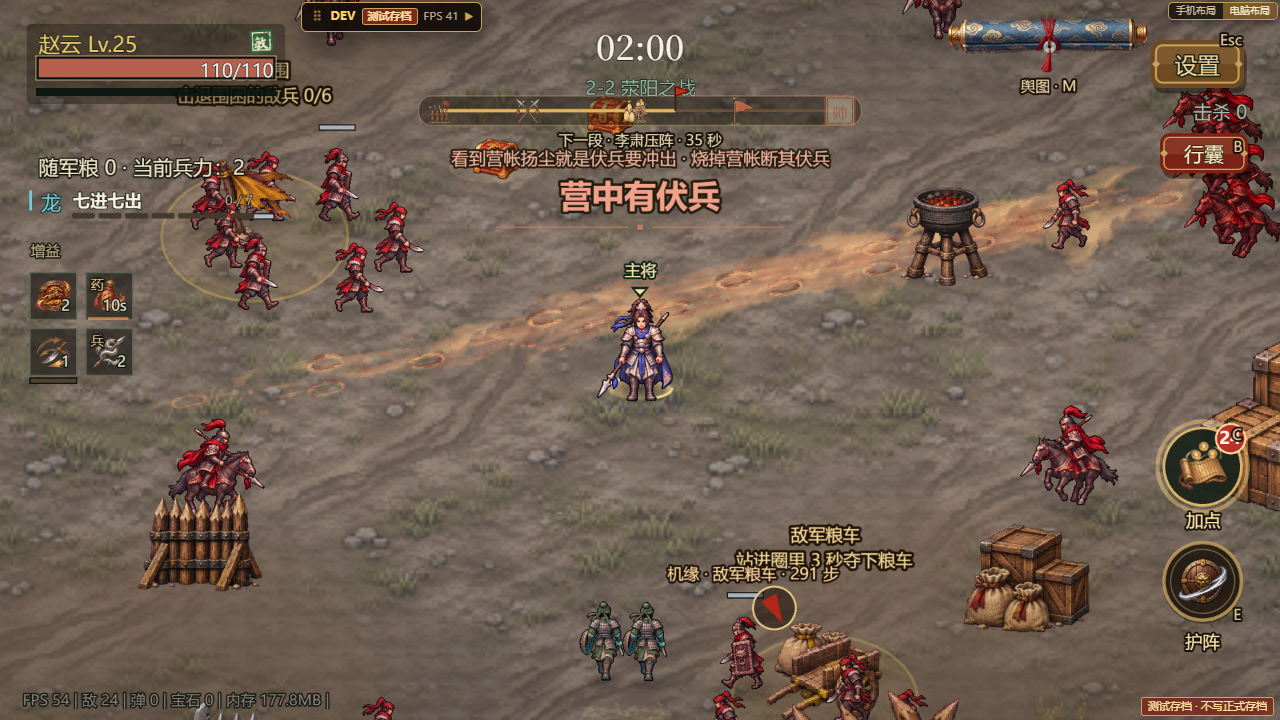
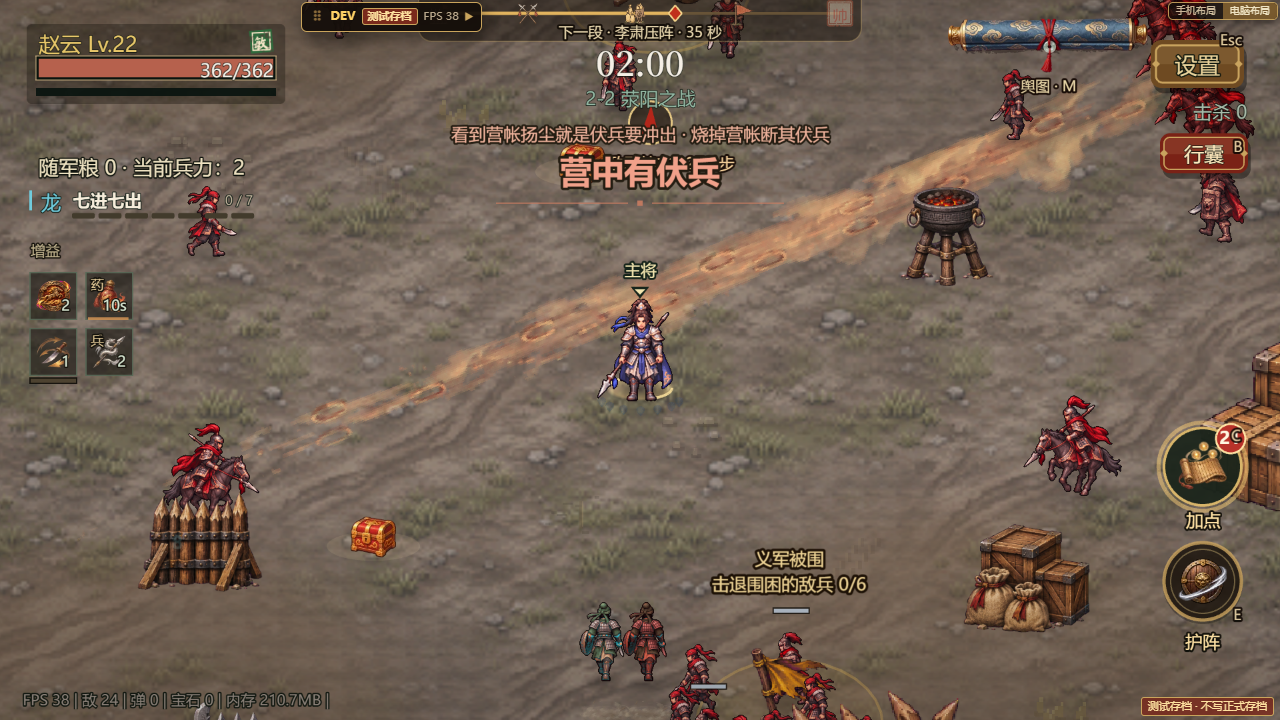
等级上限改用 B（用户「B吧」：10 / 14 / 18 / … / 54，每章 +4）+ 战况线贴屏幕最上沿（用户「顶部「战况」线放在屏幕最上面」） - 经验表按 4 级 / 章重排（二章每级 550 … 十二章 2725），宝石经验章节倍率不变（×1 … ×6.5） - 属性点：Lv25 前每级 1 点、Lv25–38 每 2 级、之后每 3 级 1 点——第五章末 24 点、第十二章末 35 点（同原目标） - 体魄：Lv10 前每级 +8、Lv10–26 每级 +15、之后 +6（第五章末 +312、第十二章末 +480，同原目标） - 新武将从「上限 − 4」（落后一章）起步；战法精

diff --git a/src/ui/BattleTrack.ts b/src/ui/BattleTrack.ts
@@ -13,7 +13,10 @@ const ICON: Record<PhaseKind, string> = { vanguard: 'enemy', elite: 'elite', eve
 const GLYPH: Record<PhaseKind, string> = { vanguard: '先', elite: '精', event: '伏', lieutenant: '将', boss: '帅' };
 const KIND_NAME: Record<PhaseKind, string> = { vanguard: '先锋', elite: '精锐', event: '事件', lieutenant: '副将', boss: '首领' };
 
+/** 顶部细带：高度、线的位置（地图像素，屏幕坐标）。场景按 BattleTrack.HEIGHT 把计时器 / 关名往下挪。 */
+const STRIP_H = 31, LINE_Y = 10;
 export class BattleTrack {
+  static readonly HEIGHT = STRIP_H;
   readonly root: Phaser.GameObjects.Container;
   private readonly line: Phaser.GameObjects.Graphics;
   private readonly icons: Array<{ img?: Phaser.GameObjects.Image; seal: Phaser.GameObjects.Container; x: number; kind: PhaseKind }> = [];
@@ -24,31 +27,32 @@ export class BattleTrack {
   /** 测试用。 */
   readonly stats = { phase: -1, progress: 0, iconsLit: 0 };
 
-  constructor(private readonly scene: Phaser.Scene, private readonly plan: PhasePlan, y = 83) {
-    const desktop = GAME_WIDTH >= 900; this.w = desktop ? 300 : 240;
-    this.root = scene.add.container(GAME_WIDTH / 2, y).setScrollFactor(0).setDepth(DEPTH.hud + 2).setName('battle-track');
-    const back = scene.add.graphics();
-    back.fillStyle(0x16100a, .42).fillRoundedRect(-this.w / 2 - 16, -11, this.w + 32, 22, 10);
-    back.lineStyle(1, 0xc9a86a, .35).strokeRoundedRect(-this.w / 2 - 16, -11, this.w + 32, 22, 10);
-    back.lineStyle(2, 0x6b5638, .9).lineBetween(-this.w / 2, 0, this.w / 2, 0);
+  constructor(private readonly scene: Phaser.Scene, private readonly plan: PhasePlan) {
+    // 2026-11-19 用户「顶部「战况」线放在屏幕最上面」：贴着屏幕上沿的一条细带（上边不留圆角），计时器 / 关名由场景往下挪（GameScene.applyPhases）
+    const desktop = GAME_WIDTH >= 900, L = LINE_Y; this.w = desktop ? 300 : 240;
+    this.root = scene.add.container(GAME_WIDTH / 2, 0).setScrollFactor(0).setDepth(DEPTH.hud + 2).setName('battle-track');
+    const back = scene.add.graphics(), bw = this.w + 32, r = { tl: 0, tr: 0, bl: 10, br: 10 };
+    back.fillStyle(0x16100a, .5).fillRoundedRect(-bw / 2, 0, bw, STRIP_H, r);
+    back.lineStyle(1, 0xc9a86a, .35).strokeRoundedRect(-bw / 2, -1, bw, STRIP_H + 1, r);
+    back.lineStyle(2, 0x6b5638, .9).lineBetween(-this.w / 2, L, this.w / 2, L);
     this.line = scene.add.graphics();
     this.root.add([back, this.line]);
     const bossAt = Math.max(1, plan.bossAt);
     for (const p of plan.phases) {
       const x = -this.w / 2 + this.w * Math.min(1, p.start / bossAt);
-      const seal = scene.add.container(x, 0).setName('track-' + p.kind);
-      const g = scene.add.graphics(); const r = p.kind === 'boss' ? 10 : 8;
+      const seal = scene.add.container(x, L).setName('track-' + p.kind);
+      const g = scene.add.graphics(); const r = p.kind === 'boss' ? 8 : 7;
       g.fillStyle(p.kind === 'boss' ? 0x8a1a10 : 0x2a1f14, 1).fillCircle(0, 0, r).lineStyle(1.5, p.kind === 'boss' ? 0xf0c070 : 0xc9a86a, 1).strokeCircle(0, 0, r);
       const t = scene.add.text(0, 0, GLYPH[p.kind], { fontFamily: FONT, fontSize: p.kind === 'boss' ? '12px' : '10px', color: p.kind === 'boss' ? '#ffe2a8' : '#e8d3a6', resolution: 2 }).setOrigin(.5);
       seal.add([g, t]); this.root.add(seal);
       this.icons.push({ seal, x, kind: p.kind });
     }
-    this.flag = scene.add.container(-this.w / 2, -2).setName('track-flag');
+    // 进度标：线上一枚朱红菱形（贴着屏幕上沿，旗杆会伸出屏幕外，所以不用小旗）
+    this.flag = scene.add.container(-this.w / 2, L).setName('track-flag');
     const fg = scene.add.graphics();
-    fg.lineStyle(1.5, 0x3a2412, 1).lineBetween(0, 2, 0, -16);
-    fg.fillStyle(0xc0301c, 1).fillTriangle(0, -16, 11, -12.5, 0, -9).lineStyle(1, 0x5a120a, 1).strokeTriangle(0, -16, 11, -12.5, 0, -9);
+    fg.fillStyle(0xc0301c, 1).fillPoints([{ x: 0, y: -6 }, { x: 5, y: 0 }, { x: 0, y: 6 }, { x: -5, y: 0 }], true).lineStyle(1.2, 0xf3d48a, 1).strokePoints([{ x: 0, y: -6 }, { x: 5, y: 0 }, { x: 0, y: 6 }, { x: -5, y: 0 }], true);
     this.flag.add(fg); this.root.add(this.flag);
-    this.caption = scene.add.text(0, 13, '', { fontFamily: FONT, fontSize: desktop ? '11px' : '10px', color: '#e7d6ae', resolution: 2, stroke: '#140e08', strokeThickness: 3 }).setOrigin(.5, 0).setName('track-caption');
+    this.caption = scene.add.text(0, L + 13, '', { fontFamily: FONT, fontSize: desktop ? '11px' : '10px', color: '#e7d6ae', resolution: 2, stroke: '#140e08', strokeThickness: 3 }).setOrigin(.5, .5).setName('track-caption');
     this.root.add(this.caption);
     this.loadIcons();
   }
@@ -59,7 +63,7 @@ export class BattleTrack {
       if (!this.root.active || !s.textures.exists(MAP_ICONS)) return;
       for (const ic of this.icons) {
         if (ic.img || !s.textures.get(MAP_ICONS).has(ICON[ic.kind])) continue;
-        const sz = ic.kind === 'boss' ? 24 : 19;
+        const sz = ic.kind === 'boss' ? 20 : 16;
         ic.img = s.add.image(0, 0, MAP_ICONS, ICON[ic.kind]).setDisplaySize(sz, sz);
         ic.seal.removeAll(true); ic.seal.add(ic.img);
         if (ic.kind === 'boss') ic.seal.add(s.add.text(0, 1, '帅', { fontFamily: FONT, fontSize: '11px', color: '#9a1a10', resolution: 2 }).setOrigin(.5));
@@ -88,7 +92,7 @@ export class BattleTrack {
     if (phase !== this.cur) { this.cur = phase; this.stats.phase = phase; this.paintStates(); }
     const k = Math.max(0, Math.min(1, elapsed / Math.max(1, this.plan.bossAt))); this.stats.progress = k;
     const x = -this.w / 2 + this.w * k; this.flag.x = x;
-    this.line.clear().lineStyle(2.5, 0xe8b860, .95).lineBetween(-this.w / 2, 0, x, 0);
+    this.line.clear().lineStyle(2.5, 0xe8b860, .95).lineBetween(-this.w / 2, LINE_Y, x, LINE_Y);
     const nx = this.plan.phases[phase + 1];
     if (bossOn || !nx) {
       this.caption.setText(bossOn ? '首领 · ' + bossName : '');

diff --git a/src/scenes/GameScene.ts b/src/scenes/GameScene.ts
@@ -3099,7 +3099,7 @@ export class GameScene extends Phaser.Scene {
       this.tweens.killTweensOf(notice); notice.destroy();
     }
     const match = /^第 (\d+)\/(\d+) 波 · (.+)$/.exec(text);
-    const label = this.add.container(GAME_WIDTH / 2, GAME_HEIGHT * .21 + (this.battleTrack?.root.visible ? 26 : 0)) // 五段关：让开顶部战况线
+    const label = this.add.container(GAME_WIDTH / 2, GAME_HEIGHT * .21 + (this.battleTrack?.root.visible ? 8 : 0)) // 五段关：计时器 / 关名下移后，横幅也略往下
       .setScrollFactor(0).setDepth(DEPTH.overlay - 10).setName('combat-notice').setVisible(this.mode === 'none');
     const caption = this.add.text(0, -21, captionText ?? (match ? `第 ${match[1]} / ${match[2]} 波` : '战场警报'), {
       fontFamily: FONT, fontSize: IS_DESKTOP ? '13px' : '14px', color: danger ? '#efb39c' : '#e1cf9d',
@@ -3628,7 +3628,7 @@ export class GameScene extends Phaser.Scene {
   /** 战斗中武将升级：每级一次三选一并给 1 个属性点（正式战斗立刻写入存档）。 */
   protected onHeroLevelUp(gained: number): void {
     const g = this.player.growth, id = this.runConfig.character;
-    const fromLv = this.heroLv, pts = attributePointsBetween(fromLv, this.player.level); // 2026-11-19：Lv20 后每 4 级才给 1 点（三选一照给）
+    const fromLv = this.heroLv, pts = attributePointsBetween(fromLv, this.player.level); // 2026-11-19：Lv25 后每 2–3 级才给 1 点（三选一照给）
     this.heroLv = this.player.level; this.picksGiven += gained; this.pendingLevels += gained; g.attrMax = attributeCap(this.player.level);
     this.player.heal(vigorHp(this.player.level) - vigorHp(fromLv)); // 体魄：升级多出的生命上限直接补满这一截
     const room = (Object.values(g.attributes) as number[]).reduce((n, v) => n + g.attrMax - v, 0) - g.unallocated;
@@ -3675,6 +3675,8 @@ export class GameScene extends Phaser.Scene {
         },
       }, plan);
       this.battleTrack = new BattleTrack(this, plan);
+      // 战况线贴着屏幕上沿：计时器、关名往下挪一截（不和战况线叠）
+      this.hudTexts.timer.setY(BattleTrack.HEIGHT + 3); this.hudTexts.chapter.setY(BattleTrack.HEIGHT + 33);
       this.fortunes = new BattleFortunes({
         scene: this, player: () => this.player, elapsed: () => this.elapsed,
         place: (x, y) => { let p = { x, y }; if (this.arena) p = this.arena.clampPoint(p.x, p.y); if (this.terrain) p = this.terrain.free(p.x, p.y, 48); return p; },
@@ -3685,7 +3687,7 @@ export class GameScene extends Phaser.Scene {
         offer: k => { this.fortuneQueue.push(k); },
       }, plan);
       this.hudTexts.wave.setVisible(false);
-    } else this.hudTexts.wave.setVisible(true);
+    } else { this.hudTexts.wave.setVisible(true); this.hudTexts.timer.setY(22); this.hudTexts.chapter.setY(56); }
     this.phasedFor = this.chapter;
   }
   /** 新卡池（五段主线关才有）：战法位按章节概率换新卡（systems/LevelCards）。 */
@@ -4460,7 +4462,7 @@ export class GameScene extends Phaser.Scene {
     if (!this.player || !this.attributePointsText) return;
     const growth=this.player.growth;
     {const close=this.attributePanel.getByName('attributes-close') as Phaser.GameObjects.Text|null;close?.setText(this.attributeReturn==='none'?'继续战斗':'返回暂停菜单');if(close&&!close.getData('hitBox')){lqHitBox(close,220,44);close.setData('hitBox',true);}}
-    this.attributePointsText.setText(growth.unallocated>0?`可分配属性点 ${growth.unallocated}`:`属性点已用完 · Lv20 前每级 1 点、之后每 4 级 1 点（当前 Lv.${this.heroLv}）`).setColor(growth.unallocated>0?(IS_DESKTOP?'#efd399':'#1c160c'):'#91ab98').setBackgroundColor(growth.unallocated>0&&!IS_DESKTOP?'#e2bd6a':'#00000000');if(IS_DESKTOP)this.attributePointsText.setFontFamily(HEADING_FONT).setFontSize(growth.unallocated>0?20:15).setStroke('#120904',growth.unallocated>0?4:0);
+    this.attributePointsText.setText(growth.unallocated>0?`可分配属性点 ${growth.unallocated}`:`属性点已用完 · Lv25 前每级 1 点、之后每 2–3 级 1 点（当前 Lv.${this.heroLv}）`).setColor(growth.unallocated>0?(IS_DESKTOP?'#efd399':'#1c160c'):'#91ab98').setBackgroundColor(growth.unallocated>0&&!IS_DESKTOP?'#e2bd6a':'#00000000');if(IS_DESKTOP)this.attributePointsText.setFontFamily(HEADING_FONT).setFontSize(growth.unallocated>0?20:15).setStroke('#120904',growth.unallocated>0?4:0);
     this.attributePauseText?.setText(`分配属性点 · ${growth.unallocated}`);
     const weapon=this.player.weapons[0];
     this.attributeWeaponText?.setText((weapon?weaponName(weapon.id,this.runConfig.character):'')+' · '+growth.masteryLabel());

diff --git a/src/data/attributes.ts b/src/data/attributes.ts
@@ -16,22 +16,28 @@ export const ATTRIBUTE_IDS: readonly AttributeId[] = ['strength', 'agility', 'in
  * ATTRIBUTE_MAX = 绝对上限（读档夹取、格子排版）；实际上限看 attributeCap(武将等级)。主属性专精门槛 4 / 7 / 10 不变。
  */
 export const ATTRIBUTE_MAX = 15;
-/** 2026-11-19 波数 / 等级重做（wave-progression-redesign.md §3）：点数不跟等级一起涨，最多约 35 点，单项上限固定 10。 */
+/** 2026-11-19 波数 / 等级重做（wave-progression-redesign.md §3）：点数不跟等级一起涨，第十二章末约 35 点，单项上限固定 10。 */
 export function attributeCap(_level: number): number { return Math.min(ATTRIBUTE_MAX, 10); }
 /**
- * 某等级累计属性点（2026-11-19 等级上限提高到 84，点数和等级脱钩）：Lv20 前每级 1 点，之后每 4 级 1 点。
- * Lv10 = 9、Lv20 = 19、Lv42 = 24、Lv72 = 32、Lv84 = 35（对得上敌人调参时假设的强度）。
+ * 某等级累计属性点（2026-11-19 用户定上限 B：10 / 14 / … / 54，每章 +4；点数和等级脱钩）：
+ * Lv25 前每级 1 点，Lv25–38 每 2 级 1 点，Lv38 起每 3 级 1 点。
+ * 各章打完：9 / 13 / 17 / 21 / 24 / 26 / 28 / 30 / 31 / 32 / 34 / 35（第五章末约 24、第十二章末约 35，对得上敌人调参时假设的强度）。
  */
-export const ATTRIBUTE_POINTS = { fullUntil: 20, lateEvery: 4 } as const;
+export const ATTRIBUTE_POINTS = { fullUntil: 25, halfUntil: 38 } as const;
 export function attributePointsAt(level: number): number {
   const lv = Math.max(1, Math.floor(level)), A = ATTRIBUTE_POINTS;
-  return lv <= A.fullUntil ? lv - 1 : A.fullUntil - 1 + Math.floor((lv - A.fullUntil) / A.lateEvery);
+  if (lv <= A.fullUntil) return lv - 1;
+  const mid = A.fullUntil - 1 + Math.floor((Math.min(lv, A.halfUntil) - A.fullUntil) / 2);
+  return lv <= A.halfUntil ? mid : mid + Math.floor((lv - A.halfUntil) / 3);
 }
-/** 体魄：武将每级生命上限 +8（Lv40 起每级 +4），取代固本培元无限叠出来的生命。 */
-export const VIGOR = { perLevel: 8, lateFrom: 40, perLevelLate: 4 } as const;
+/**
+ * 体魄：武将等级生命（取代固本培元无限叠出来的生命）。Lv10 前每级 +8、Lv10–26 每级 +15、之后每级 +6：
+ * Lv10 +72、Lv26 +312（第五章末，对齐现在 5-2 叠出的约 +340）、Lv54 +480（第十二章末，对齐 10-3 约 +440）。
+ */
+export const VIGOR = { early: 8, mid: 15, late: 6, midFrom: 10, lateFrom: 26 } as const;
 export function vigorHp(level: number): number {
-  const lv = Math.max(1, Math.floor(level));
-  return VIGOR.perLevel * (Math.min(lv, VIGOR.lateFrom) - 1) + VIGOR.perLevelLate * Math.max(0, lv - VIGOR.lateFrom);
+  const lv = Math.max(1, Math.floor(level)), V = VIGOR;
+  return V.early * (Math.min(lv, V.midFrom) - 1) + V.mid * Math.max(0, Math.min(lv, V.lateFrom) - V.midFrom) + V.late * Math.max(0, lv - V.lateFrom);
 }
 export const ATTRIBUTE_POINT_EVERY = 1;
 /** 每点效果。 */

diff --git a/src/systems/HeroProgress.ts b/src/systems/HeroProgress.ts
@@ -9,14 +9,14 @@ import { arcUnlocked } from '../world/WorldStore';
  * 武将等级（跨战斗永久，2026-11-16 用户批准 hero-level-proposal.md 做法 A）：
  * - 每位武将（可玩名将 CharacterId 或招募的 r_ 编号）各记等级、经验、已加的属性点；存档键 im_heroes_v1（SaveSlots.PROGRESS_KEYS）。
  * - 结算时本场经验折进武将经验（主线 100%、攻城 / 军情 / 挑战 50%，测试战斗不记）；经验表与局内相同（xpToNext）。
- * - 属性点：2026-11-19 起 Lv20 前每级 1 点、之后每 4 级 1 点（data/attributes.ts attributePointsAt），单项最多 10，分配永久保留。
- * - 等级上限随章节开放（2026-11-19 波数 / 等级重做）：10 / 18 / 26 / 34 / 42 / 48 / 54 / 60 / 66 / 72 / 78 / 84；超出的经验先存着，开新章后再升。
- * - 第一次出战的武将：只开第一章时 Lv1，之后从「当前上限 − 6」起步（避免后期才用的武将打不动）。
+ * - 属性点：2026-11-19 起 Lv25 前每级 1 点、Lv25–38 每 2 级 1 点、之后每 3 级 1 点（data/attributes.ts attributePointsAt），单项最多 10，分配永久保留。
+ * - 等级上限随章节开放（2026-11-19 波数 / 等级重做，用户选 B）：10 / 14 / 18 / 22 / 26 / 30 / 34 / 38 / 42 / 46 / 50 / 54；超出的经验先存着，开新章后再升。
+ * - 第一次出战的武将：只开第一章时 Lv1，之后从「当前上限 − 4」（落后一章）起步（避免后期才用的武将打不动）。
  */
 export const HEROES_KEY = 'im_heroes_v1';
 /** 各章开放时的武将等级上限（第 n 章 = LEVEL_CAPS[n−1]）。2026-11-18 平衡：第六～十二章每章 +4，到 58（属性单项上限 14、共 56 点）。 */
 /** 2026-11-19 波数 / 等级重做（wave-progression-redesign.md §3）：上限提高，经验按章节放大，各章打完正好到上限；点数与等级脱钩（attributePointsAt）。 */
-export const LEVEL_CAPS: readonly number[] = [10, 18, 26, 34, 42, 48, 54, 60, 66, 72, 78, 84];
+export const LEVEL_CAPS: readonly number[] = [10, 14, 18, 22, 26, 30, 34, 38, 42, 46, 50, 54]; // 2026-11-19 用户选 B（每章 +4）
 export type HeroKey = CharacterId | `r_${number}`;
 export interface HeroRecord { level: number; xp: number; attributes: Record<AttributeId, number> }
 /**
@@ -41,7 +41,7 @@ export function chaptersOpen(): number {
 }
 export function levelCap(): number { return LEVEL_CAPS[chaptersOpen() - 1]; }
 /** 第一次出战的武将的起始等级。 */
-export function startLevel(): number { const cap = levelCap(); return cap <= LEVEL_CAPS[0] ? 1 : cap - 6; }
+export function startLevel(): number { const cap = levelCap(); return cap <= LEVEL_CAPS[0] ? 1 : cap - 4; } // 落后一章
 /** 某等级累计可得的属性点。 */
 export function pointsAt(level: number): number { return attributePointsAt(level); }
 

diff --git a/src/ui/HeroCodexUI.ts b/src/ui/HeroCodexUI.ts
@@ -270,7 +270,7 @@ export class HeroCodexUI {
   /** 属性页：每项一张漆卡（图标 · 名字 · 效果 · 点数刻度 · +），主属性另起一行列专精三档。 */
   private deskAttrs(x: number, y: number, w: number, bottom: number): void {
     const a = heroAttrs(this.hero), free = heroFreePoints(this.hero), cost = respecCost(this.hero), spent = Object.values(a).reduce((n, v) => n + v, 0), cap = attributeCap(heroInfo(this.hero).level);
-    const head = this.text(x + 4, y + 8, `未分配属性点 ${free}　（Lv20 前每级 1 点、之后每 4 级 1 点，单项最多 ${cap} 点）`, 14, free ? '#f3d48a' : '#b9a57a').setOrigin(0, .5).setName('codex-free');
+    const head = this.text(x + 4, y + 8, `未分配属性点 ${free}　（Lv25 前每级 1 点、之后每 2–3 级 1 点，单项最多 ${cap} 点）`, 14, free ? '#f3d48a' : '#b9a57a').setOrigin(0, .5).setName('codex-free');
     const head0 = head.text, ids = Object.keys(ATTRIBUTE_INFO) as AttributeId[], cardH = Math.min(66, Math.floor((bottom - y - 70) / ids.length));
     ids.forEach((id, i) => {
       const ry = y + 24 + i * cardH, primary = primaryAttribute(this.hero) === id, h = cardH - 6, g = this.add(this.scene.add.graphics());
@@ -394,7 +394,7 @@ export class HeroCodexUI {
 
   private renderAttrs(x: number, y: number, w: number): void {
     const a = heroAttrs(this.hero), free = heroFreePoints(this.hero), cost = respecCost(this.hero), spent = Object.values(a).reduce((n, v) => n + v, 0);
-    const head = this.text(x, y, `未分配属性点 ${free}　（Lv20 前每级 1 点、之后每 4 级 1 点，单项最多 ${attributeCap(heroInfo(this.hero).level)} 点）`, 14, free ? '#f3d48a' : '#b9a57a').setName('codex-free');
+    const head = this.text(x, y, `未分配属性点 ${free}　（Lv25 前每级 1 点、之后每 2–3 级 1 点，单项最多 ${attributeCap(heroInfo(this.hero).level)} 点）`, 14, free ? '#f3d48a' : '#b9a57a').setName('codex-free');
     (Object.keys(ATTRIBUTE_INFO) as AttributeId[]).forEach((id, i) => {
       const ry = y + 40 + i * 44;
       if (this.scene.textures.exists(attributeIcon(id))) this.add(this.scene.add.image(x + 16, ry + 12, attributeIcon(id)).setDisplaySize(28, 28));

diff --git a/src/data/heroLevels.ts b/src/data/heroLevels.ts
@@ -8,10 +8,10 @@ const TABLE: readonly number[] = [
   120, 150, 180, 210, 240,        // Lv5–10（第一章）
 ];
 /**
- * 2026-11-19 波数 / 等级重做（wave-progression-redesign.md §3.3）：上限 10 / 18 / 26 / 34 / 42 / 48 / 54 / 60 / 66 / 72 / 78 / 84，
- * 每章可得 = 3 关 × 约 320 局内经验 × 章节倍率 + 3 × 首通，摊到本章要升的级数（二～五章 8 级、六章起 6 级）。实现后由平衡会话实测再校。
+ * 2026-11-19 波数 / 等级重做（wave-progression-redesign.md §3.3，用户选上限 B：10 / 14 / … / 54，每章 +4）：
+ * 每章可得 = 3 关 × 约 320 局内经验 × 章节倍率 + 3 × 首通，摊到本章的 4 级。实现后由平衡会话实测再校。
  */
-const BANDS: ReadonlyArray<readonly [number, number]> = [[18, 275], [26, 380], [34, 490], [42, 600], [48, 945], [54, 1090], [60, 1235], [66, 1380], [72, 1525], [78, 1670], [84, 1815]];
+const BANDS: ReadonlyArray<readonly [number, number]> = [[14, 550], [18, 765], [22, 985], [26, 1200], [30, 1420], [34, 1635], [38, 1855], [42, 2070], [46, 2290], [50, 2505], [54, 2725]];
 export function heroXpToNext(level: number): number {
   const lv = Math.max(1, Math.floor(level));
   if (lv - 1 < TABLE.length) return TABLE[lv - 1];

diff --git a/src/systems/FollowerSquad.ts b/src/systems/FollowerSquad.ts
@@ -113,7 +113,7 @@ export class Follower {
     let dmgLv = 1, hpLv = 1; this.level = 1;
     try { const key = (recruit.hero ?? recruit.id) as HeroKey; this.level = Math.min(heroLevel(key), followerLevelCap()); // 随行等级不超过随行上限（主公不会出现在随行里）
       if (recruit.hero) { const a = heroAttrs(key); dmgLv = 1 + FOLLOW.mightDamage * a.strength; hpLv = 1 + FOLLOW.constitutionHp * a.strength; }
-      else { const pl = pointsAt(this.level); dmgLv = 1 + FOLLOW.levelDamage * pl; hpLv = 1 + FOLLOW.levelHp * pl; } } catch { /* 等级存档不可用 */ } // 2026-11-19：招来的武将按点数等级成长（Lv20 后每 4 级算 1 级）
+      else { const pl = pointsAt(this.level); dmgLv = 1 + FOLLOW.levelDamage * pl; hpLv = 1 + FOLLOW.levelHp * pl; } } catch { /* 等级存档不可用 */ } // 2026-11-19：招来的武将按点数等级成长（Lv25 后每 2–3 级算 1 级）
     this.damage = t.damage * q * (hero?.damageMul ?? 1) * (1 + b.damage) * (1 + g.damage) * (1 + g.crit) * dmgLv;
     this.maxHp = Math.round(t.hp * q * (hero?.hpMul ?? 1) * (1 + b.hp) * (1 + g.hp) * hpLv * leaderLevelHp); this.hp = this.maxHp;
     this.speedMul = t.speed * (hero?.speedMul ?? 1) * (1 + g.move);
